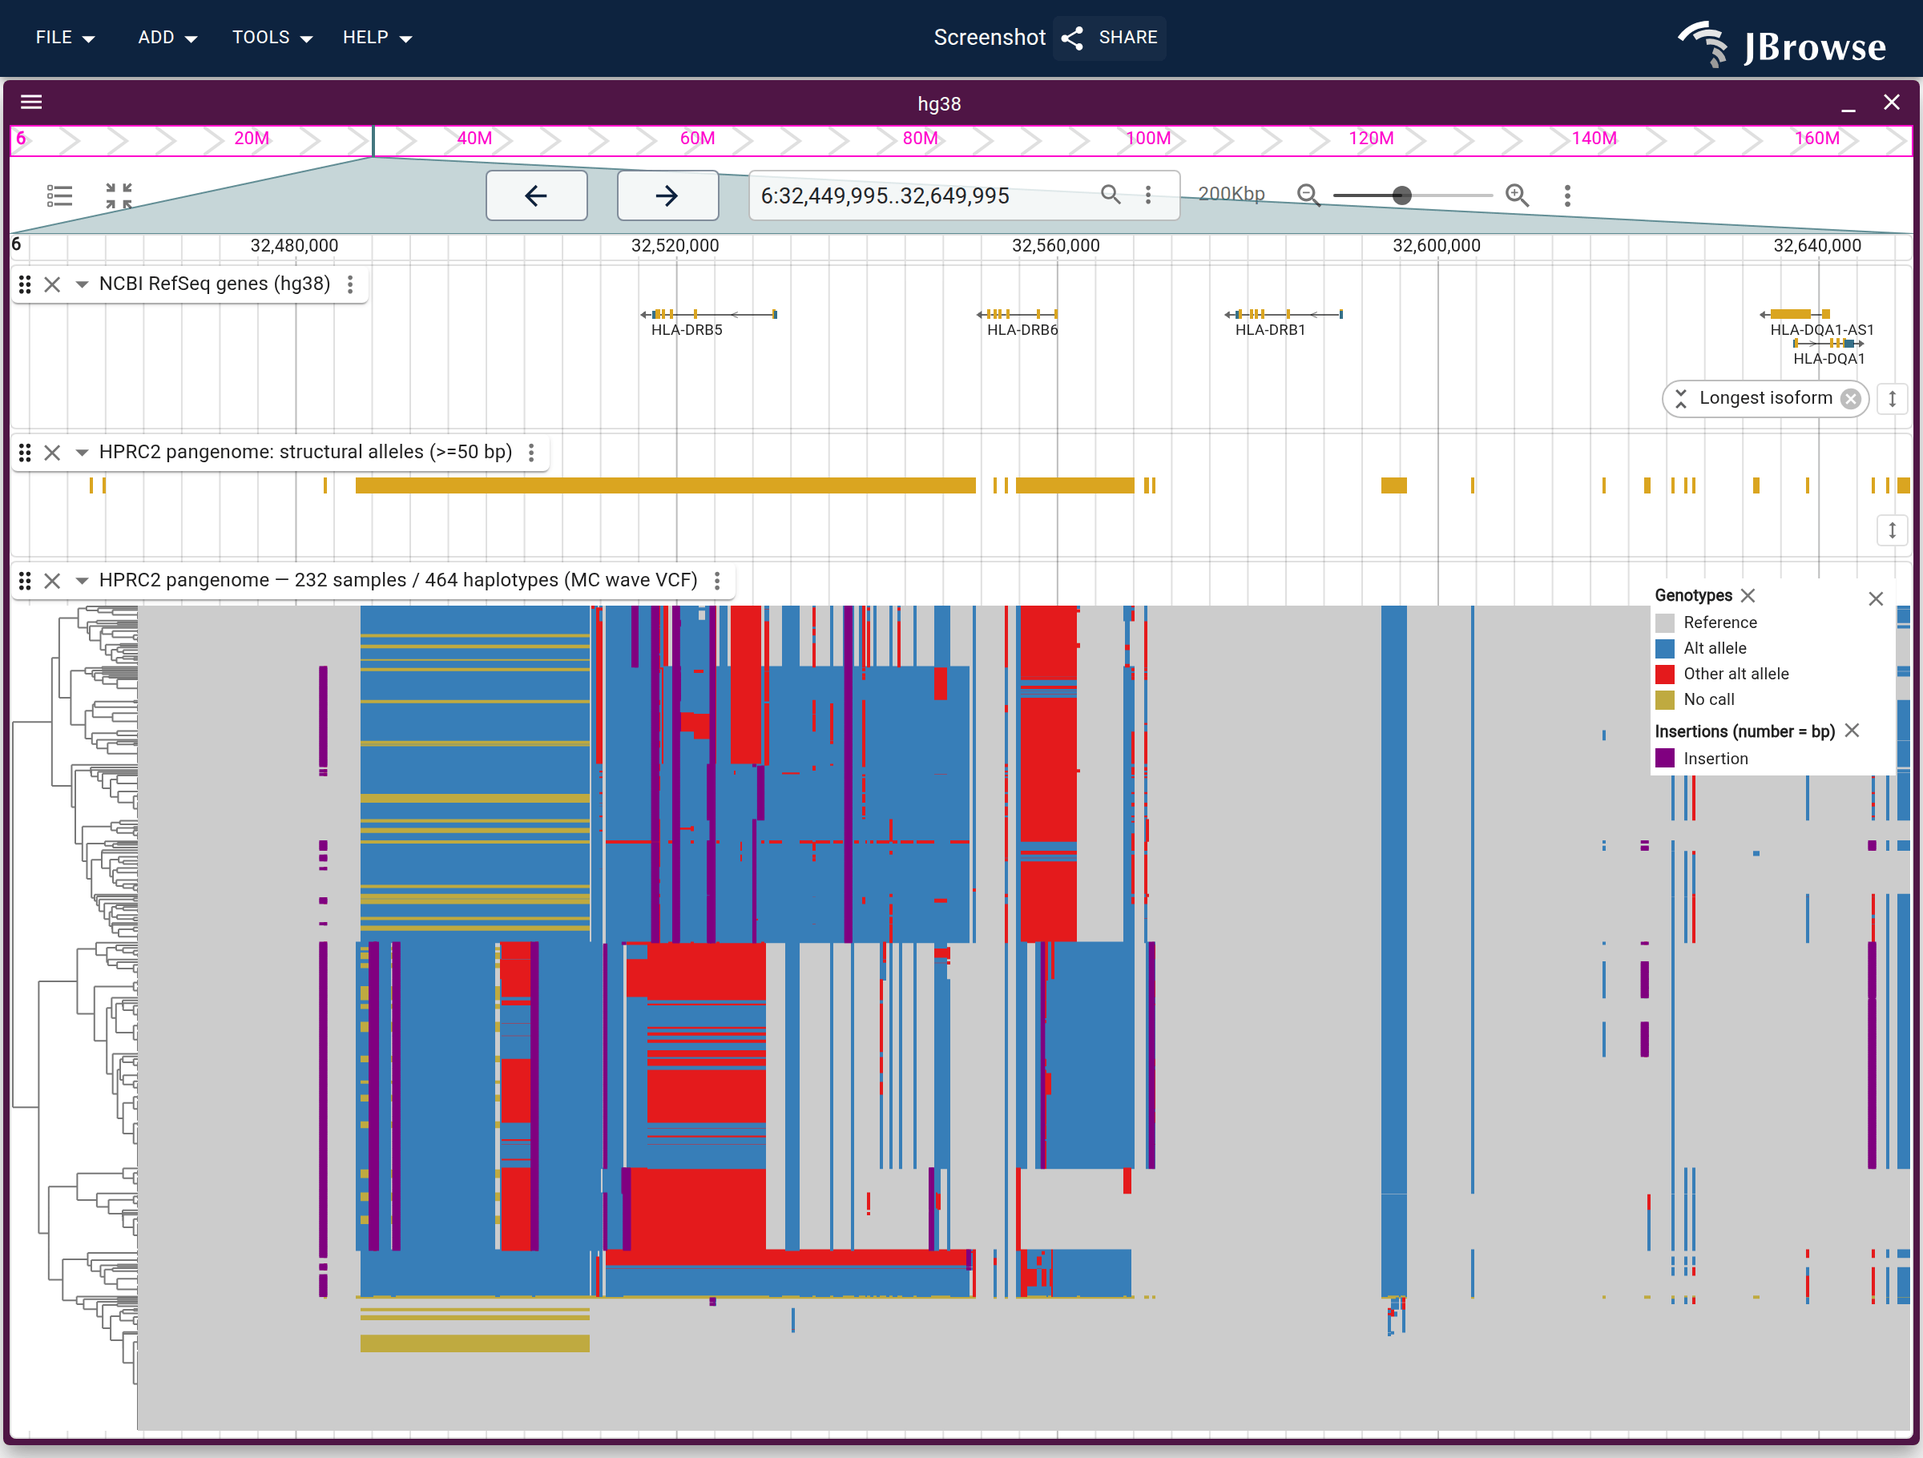
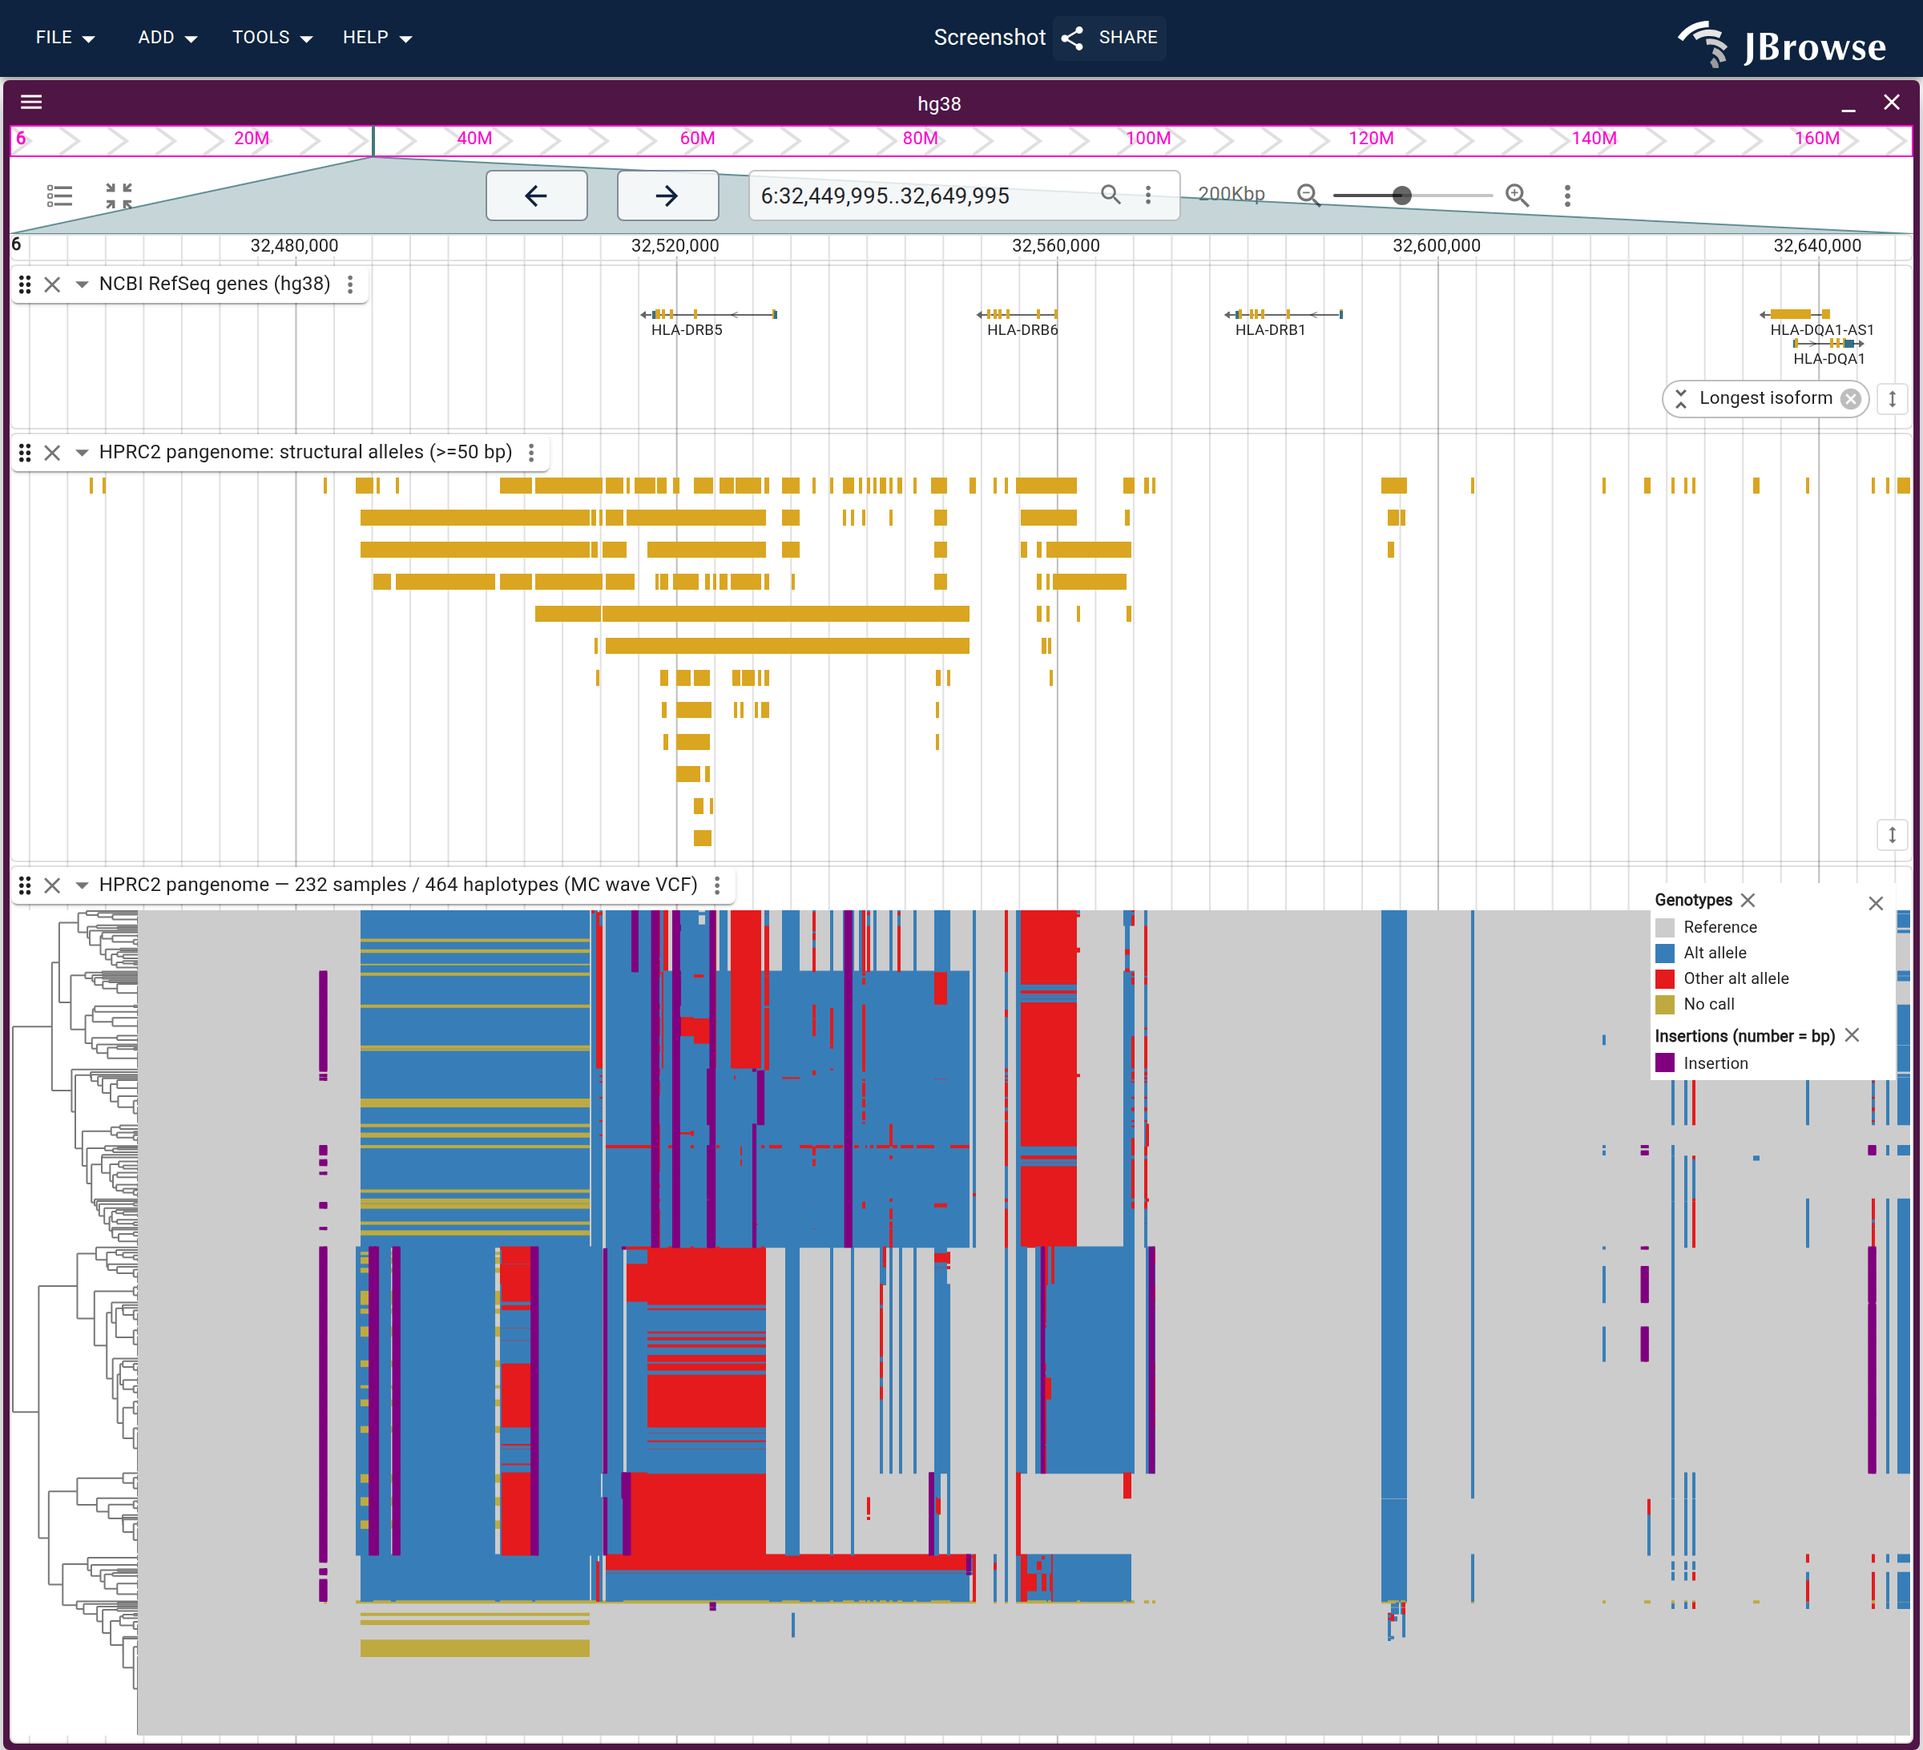
docs(hprc2): stack the MHC structural-allele lane instead of collapsing it
The plain variant lane over the haplotype matrix was displayMode 'collapsed',
which packs every call onto one row -- and these calls overlap, so a 55 kb
allele with dozens of shorter ones inside it drew as one continuous bar. The
lane said "something structural here" and nothing about how many alleles or how
big (review: "need proper layout i think to see nested features").

Normal layout plus heightMode 'grow' now gives it as many rows as the overlap
takes, so a nested allele is drawn inside the span of the one containing it and
each call has its own width. showLabels 'none' with it: every call is named for
the graph nodes it walks (>161033067>161046240_24), so labels cost more height
than the glyphs and say nothing -- the popup still carries the id.

viewportHeight 910 -> 1092, from the run's own below-the-fold report.

diff --git a/website/src/lib/galleryLinks.generated.ts b/website/src/lib/galleryLinks.generated.ts
@@ -284,7 +284,7 @@ export const specSessionUrls: Record<string, string> = {
   "pangenome/hprc_node_menu": "?config=test_data/graphgenomeview/hprc.json&session=spec-%7B%22views%22%3A%5B%7B%22type%22%3A%22LinearGenomeView%22%2C%22assembly%22%3A%22hg38%22%2C%22loc%22%3A%22chr6%3A32%2C500%2C000-32%2C560%2C000%22%2C%22tracks%22%3A%5B%7B%22trackId%22%3A%22hg38_ncbiRefSeq_ucsc%22%2C%22type%22%3A%22LinearBasicDisplay%22%2C%22geneGlyphMode%22%3A%22longestCoding%22%2C%22displayMode%22%3A%22compact%22%2C%22height%22%3A60%7D%2C%7B%22trackId%22%3A%22hprc_minigraph_segments%22%2C%22type%22%3A%22LinearBasicDisplay%22%2C%22showLabels%22%3A%22none%22%2C%22heightMode%22%3A%22grow%22%2C%22color%22%3A%22jexl%3Aget(feature%2C'rank')%3E0%20%3F%20'rgb(60%2C65%2C72)'%20%3A%20'hsl('%20%2B%20min(300%2C%20max(0%2C%20((get(feature%2C'start')%2Bget(feature%2C'end'))%2F2%20-%2032500000)%20%2F%2060000%20*%20300))%20%2B%20'%2C70%25%2C50%25)'%22%7D%5D%7D%2C%7B%22type%22%3A%22GraphGenomeView%22%2C%22loadedTrackId%22%3A%22hprc_minigraph_segments%22%2C%22loadedRegion%22%3A%7B%22refName%22%3A%22chr6%22%2C%22assemblyName%22%3A%22hg38%22%2C%22start%22%3A32500000%2C%22end%22%3A32560000%7D%2C%22colorScheme%22%3A%22reference-position%22%7D%5D%7D&sessionName=Screenshot",
   "pangenome/rgfa_launch_out_menu": "?config=test_data/graphgenomeview/ecoli_pangenome.json&session=spec-%7B%22views%22%3A%5B%7B%22id%22%3A%22launch_out_graph%22%2C%22type%22%3A%22GraphGenomeView%22%2C%22loadedTrackId%22%3A%22ecoli_minigraph_segments%22%2C%22loadedRegion%22%3A%7B%22refName%22%3A%22chr%22%2C%22assemblyName%22%3A%22K12%22%2C%22start%22%3A4400000%2C%22end%22%3A4450000%7D%2C%22layoutMode%22%3A%22force%22%2C%22colorScheme%22%3A%22stable-rank%22%7D%5D%7D&sessionName=Screenshot",
   "pangenome/rgfa_strain_launch": "?config=test_data/graphgenomeview/ecoli_pangenome.json&session=spec-%7B%22views%22%3A%5B%7B%22id%22%3A%22pks_graph%22%2C%22type%22%3A%22GraphGenomeView%22%2C%22loadedTrackId%22%3A%22ecoli_minigraph_segments%22%2C%22loadedRegion%22%3A%7B%22refName%22%3A%22chr%22%2C%22assemblyName%22%3A%22K12%22%2C%22start%22%3A2056000%2C%22end%22%3A2064000%7D%2C%22layoutMode%22%3A%22force%22%2C%22colorScheme%22%3A%22stable-rank%22%7D%5D%7D&sessionName=Screenshot",
-  "hprc2/mhc_clustered": "?config=test_data/hprc2/config.json&session=spec-%7B%22sessionTracks%22%3A%5B%7B%22type%22%3A%22FeatureTrack%22%2C%22trackId%22%3A%22hg38_ncbiRefSeq_ucsc%22%2C%22name%22%3A%22NCBI%20RefSeq%20genes%20(hg38)%22%2C%22assemblyNames%22%3A%5B%22hg38%22%5D%2C%22adapter%22%3A%7B%22type%22%3A%22Gff3TabixAdapter%22%2C%22gffGzLocation%22%3A%7B%22uri%22%3A%22https%3A%2F%2Fjbrowse.org%2Fucsc%2Fhg38%2FncbiRefSeq.gff.gz%22%2C%22locationType%22%3A%22UriLocation%22%7D%2C%22index%22%3A%7B%22location%22%3A%7B%22uri%22%3A%22https%3A%2F%2Fjbrowse.org%2Fucsc%2Fhg38%2FncbiRefSeq.gff.gz.csi%22%2C%22locationType%22%3A%22UriLocation%22%7D%2C%22indexType%22%3A%22CSI%22%7D%7D%7D%2C%7B%22type%22%3A%22VariantTrack%22%2C%22trackId%22%3A%22hprc2_wave_grch38_sites%22%2C%22name%22%3A%22HPRC2%20pangenome%3A%20structural%20alleles%20(%3E%3D50%20bp)%22%2C%22assemblyNames%22%3A%5B%22hg38%22%5D%2C%22adapter%22%3A%7B%22type%22%3A%22VcfTabixAdapter%22%2C%22uri%22%3A%22https%3A%2F%2Fs3-us-west-2.amazonaws.com%2Fhuman-pangenomics%2Fpangenomes%2Ffreeze%2Frelease2%2Fminigraph-cactus%2Fhprc-v2.0-mc-grch38.wave.vcf.gz%22%7D%7D%5D%2C%22views%22%3A%5B%7B%22type%22%3A%22LinearGenomeView%22%2C%22assembly%22%3A%22hg38%22%2C%22loc%22%3A%22chr6%3A32%2C450%2C000-32%2C650%2C000%22%2C%22tracks%22%3A%5B%7B%22trackId%22%3A%22hg38_ncbiRefSeq_ucsc%22%2C%22geneGlyphMode%22%3A%22longestCoding%22%2C%22displayMode%22%3A%22compact%22%2C%22height%22%3A70%7D%2C%7B%22trackId%22%3A%22hprc2_wave_grch38_sites%22%2C%22type%22%3A%22LinearVariantDisplay%22%2C%22jexlFiltersSetting%22%3A%5B%22jexl%3Afeature.INFO.LV%5B0%5D%3D%3D0%20%26%26%20alleleLength(feature)%3E%3D50%22%5D%2C%22displayMode%22%3A%22collapsed%22%2C%22height%22%3A45%7D%2C%7B%22trackId%22%3A%22hprc2_wave_grch38%22%2C%22type%22%3A%22LinearMultiSampleVariantDisplay%22%2C%22height%22%3A515%2C%22jexlFilters%22%3A%5B%22jexl%3Afeature.INFO.LV%5B0%5D%3D%3D0%20%26%26%20alleleLength(feature)%3E%3D50%22%5D%2C%22runClustering%22%3Atrue%7D%5D%7D%5D%7D&sessionName=Screenshot",
+  "hprc2/mhc_clustered": "?config=test_data/hprc2/config.json&session=spec-%7B%22sessionTracks%22%3A%5B%7B%22type%22%3A%22FeatureTrack%22%2C%22trackId%22%3A%22hg38_ncbiRefSeq_ucsc%22%2C%22name%22%3A%22NCBI%20RefSeq%20genes%20(hg38)%22%2C%22assemblyNames%22%3A%5B%22hg38%22%5D%2C%22adapter%22%3A%7B%22type%22%3A%22Gff3TabixAdapter%22%2C%22gffGzLocation%22%3A%7B%22uri%22%3A%22https%3A%2F%2Fjbrowse.org%2Fucsc%2Fhg38%2FncbiRefSeq.gff.gz%22%2C%22locationType%22%3A%22UriLocation%22%7D%2C%22index%22%3A%7B%22location%22%3A%7B%22uri%22%3A%22https%3A%2F%2Fjbrowse.org%2Fucsc%2Fhg38%2FncbiRefSeq.gff.gz.csi%22%2C%22locationType%22%3A%22UriLocation%22%7D%2C%22indexType%22%3A%22CSI%22%7D%7D%7D%2C%7B%22type%22%3A%22VariantTrack%22%2C%22trackId%22%3A%22hprc2_wave_grch38_sites%22%2C%22name%22%3A%22HPRC2%20pangenome%3A%20structural%20alleles%20(%3E%3D50%20bp)%22%2C%22assemblyNames%22%3A%5B%22hg38%22%5D%2C%22adapter%22%3A%7B%22type%22%3A%22VcfTabixAdapter%22%2C%22uri%22%3A%22https%3A%2F%2Fs3-us-west-2.amazonaws.com%2Fhuman-pangenomics%2Fpangenomes%2Ffreeze%2Frelease2%2Fminigraph-cactus%2Fhprc-v2.0-mc-grch38.wave.vcf.gz%22%7D%7D%5D%2C%22views%22%3A%5B%7B%22type%22%3A%22LinearGenomeView%22%2C%22assembly%22%3A%22hg38%22%2C%22loc%22%3A%22chr6%3A32%2C450%2C000-32%2C650%2C000%22%2C%22tracks%22%3A%5B%7B%22trackId%22%3A%22hg38_ncbiRefSeq_ucsc%22%2C%22geneGlyphMode%22%3A%22longestCoding%22%2C%22displayMode%22%3A%22compact%22%2C%22height%22%3A70%7D%2C%7B%22trackId%22%3A%22hprc2_wave_grch38_sites%22%2C%22type%22%3A%22LinearVariantDisplay%22%2C%22jexlFiltersSetting%22%3A%5B%22jexl%3Afeature.INFO.LV%5B0%5D%3D%3D0%20%26%26%20alleleLength(feature)%3E%3D50%22%5D%2C%22displayMode%22%3A%22normal%22%2C%22heightMode%22%3A%22grow%22%2C%22showLabels%22%3A%22none%22%7D%2C%7B%22trackId%22%3A%22hprc2_wave_grch38%22%2C%22type%22%3A%22LinearMultiSampleVariantDisplay%22%2C%22height%22%3A515%2C%22jexlFilters%22%3A%5B%22jexl%3Afeature.INFO.LV%5B0%5D%3D%3D0%20%26%26%20alleleLength(feature)%3E%3D50%22%5D%2C%22runClustering%22%3Atrue%7D%5D%7D%5D%7D&sessionName=Screenshot",
   "cookbook_color_by_strand": "?config=test_data/config_demo.json&session=spec-%7B%22views%22%3A%5B%7B%22type%22%3A%22LinearGenomeView%22%2C%22assembly%22%3A%22hg38%22%2C%22loc%22%3A%22chr17%3A7%2C400%2C000-7%2C700%2C000%22%2C%22tracks%22%3A%5B%7B%22trackId%22%3A%22ncbi_refseq_109_hg38%22%2C%22height%22%3A260%2C%22color%22%3A%22jexl%3Afeature.strand%3D%3D1%3F'%231f77b4'%3A'%23d62728'%22%7D%5D%7D%5D%7D&sessionName=Screenshot",
   "cookbook_color_by_type": "?config=test_data/config_demo.json&session=spec-%7B%22sessionTracks%22%3A%5B%7B%22type%22%3A%22FeatureTrack%22%2C%22trackId%22%3A%22rmsk_hg38_ucsc%22%2C%22name%22%3A%22RepeatMasker%22%2C%22assemblyNames%22%3A%5B%22hg38%22%5D%2C%22adapter%22%3A%7B%22type%22%3A%22BedTabixAdapter%22%2C%22bedGzLocation%22%3A%7B%22uri%22%3A%22https%3A%2F%2Fjbrowse.org%2Fucsc%2Fhg38%2Frmsk.bed.gz%22%2C%22locationType%22%3A%22UriLocation%22%7D%2C%22index%22%3A%7B%22indexType%22%3A%22CSI%22%2C%22location%22%3A%7B%22uri%22%3A%22https%3A%2F%2Fjbrowse.org%2Fucsc%2Fhg38%2Frmsk.bed.gz.csi%22%2C%22locationType%22%3A%22UriLocation%22%7D%7D%7D%7D%5D%2C%22views%22%3A%5B%7B%22type%22%3A%22LinearGenomeView%22%2C%22assembly%22%3A%22hg38%22%2C%22loc%22%3A%22chr17%3A45%2C700%2C000-45%2C750%2C000%22%2C%22tracks%22%3A%5B%7B%22trackId%22%3A%22rmsk_hg38_ucsc%22%2C%22height%22%3A380%2C%22color%22%3A%22jexl%3A%7BSINE%3A'%23e41a1c'%2CLINE%3A'%23377eb8'%2CLTR%3A'%234daf4a'%2CDNA%3A'%23984ea3'%2CSimple_repeat%3A'%23ff7f00'%2CLow_complexity%3A'%23a65628'%7D%5Bget(feature%2C'repClass')%5D%20%7C%7C%20'gray'%22%7D%5D%7D%5D%7D&sessionName=Screenshot",
   "cookbook_multiwig": "?config=test_data/config_demo.json&session=spec-%7B%22sessionTracks%22%3A%5B%7B%22type%22%3A%22MultiQuantitativeTrack%22%2C%22trackId%22%3A%22cookbook_multiwig%22%2C%22name%22%3A%22PUR%20copy%20number%20(8%20samples)%22%2C%22assemblyNames%22%3A%5B%22hg38%22%5D%2C%22adapter%22%3A%7B%22type%22%3A%22MultiWiggleAdapter%22%2C%22subadapters%22%3A%5B%7B%22type%22%3A%22BigWigAdapter%22%2C%22name%22%3A%22HG01080%22%2C%22color%22%3A%22%230072B2%22%2C%22bigWigLocation%22%3A%7B%22uri%22%3A%22https%3A%2F%2Fjbrowse.org%2Fgenomes%2FGRCh38%2F1000g%2Fkidd_lab_cnv%2FPUR%2FHG01080.qm2.CN.1k.bw%22%2C%22locationType%22%3A%22UriLocation%22%7D%7D%2C%7B%22type%22%3A%22BigWigAdapter%22%2C%22name%22%3A%22HG01054%22%2C%22color%22%3A%22%23D55E00%22%2C%22bigWigLocation%22%3A%7B%22uri%22%3A%22https%3A%2F%2Fjbrowse.org%2Fgenomes%2FGRCh38%2F1000g%2Fkidd_lab_cnv%2FPUR%2FHG01054.qm2.CN.1k.bw%22%2C%22locationType%22%3A%22UriLocation%22%7D%7D%2C%7B%22type%22%3A%22BigWigAdapter%22%2C%22name%22%3A%22HG00739%22%2C%22color%22%3A%22%23009E73%22%2C%22bigWigLocation%22%3A%7B%22uri%22%3A%22https%3A%2F%2Fjbrowse.org%2Fgenomes%2FGRCh38%2F1000g%2Fkidd_lab_cnv%2FPUR%2FHG00739.qm2.CN.1k.bw%22%2C%22locationType%22%3A%22UriLocation%22%7D%7D%2C%7B%22type%22%3A%22BigWigAdapter%22%2C%22name%22%3A%22HG00553%22%2C%22color%22%3A%22%23CC79A7%22%2C%22bigWigLocation%22%3A%7B%22uri%22%3A%22https%3A%2F%2Fjbrowse.org%2Fgenomes%2FGRCh38%2F1000g%2Fkidd_lab_cnv%2FPUR%2FHG00553.qm2.CN.1k.bw%22%2C%22locationType%22%3A%22UriLocation%22%7D%7D%2C%7B%22type%22%3A%22BigWigAdapter%22%2C%22name%22%3A%22HG01070%22%2C%22color%22%3A%22%23E69F00%22%2C%22bigWigLocation%22%3A%7B%22uri%22%3A%22https%3A%2F%2Fjbrowse.org%2Fgenomes%2FGRCh38%2F1000g%2Fkidd_lab_cnv%2FPUR%2FHG01070.qm2.CN.1k.bw%22%2C%22locationType%22%3A%22UriLocation%22%7D%7D%2C%7B%22type%22%3A%22BigWigAdapter%22%2C%22name%22%3A%22HG00554%22%2C%22color%22%3A%22%2356B4E9%22%2C%22bigWigLocation%22%3A%7B%22uri%22%3A%22https%3A%2F%2Fjbrowse.org%2Fgenomes%2FGRCh38%2F1000g%2Fkidd_lab_cnv%2FPUR%2FHG00554.qm2.CN.1k.bw%22%2C%22locationType%22%3A%22UriLocation%22%7D%7D%2C%7B%22type%22%3A%22BigWigAdapter%22%2C%22name%22%3A%22HG00551%22%2C%22color%22%3A%22%238B008B%22%2C%22bigWigLocation%22%3A%7B%22uri%22%3A%22https%3A%2F%2Fjbrowse.org%2Fgenomes%2FGRCh38%2F1000g%2Fkidd_lab_cnv%2FPUR%2FHG00551.qm2.CN.1k.bw%22%2C%22locationType%22%3A%22UriLocation%22%7D%7D%2C%7B%22type%22%3A%22BigWigAdapter%22%2C%22name%22%3A%22HG01083%22%2C%22color%22%3A%22%23666666%22%2C%22bigWigLocation%22%3A%7B%22uri%22%3A%22https%3A%2F%2Fjbrowse.org%2Fgenomes%2FGRCh38%2F1000g%2Fkidd_lab_cnv%2FPUR%2FHG01083.qm2.CN.1k.bw%22%2C%22locationType%22%3A%22UriLocation%22%7D%7D%5D%7D%7D%5D%2C%22views%22%3A%5B%7B%22type%22%3A%22LinearGenomeView%22%2C%22assembly%22%3A%22hg38%22%2C%22loc%22%3A%22chr1%3A103%2C540%2C000-103%2C770%2C000%22%2C%22tracks%22%3A%5B%7B%22trackId%22%3A%22ncbi_refseq_109_hg38%22%2C%22height%22%3A70%7D%2C%7B%22trackId%22%3A%22cookbook_multiwig%22%2C%22height%22%3A480%2C%22defaultRendering%22%3A%22multirowline%22%2C%22minScore%22%3A0%2C%22maxScore%22%3A5%7D%5D%7D%5D%7D&sessionName=Screenshot"

diff --git a/website/scripts/specs/hprc2.ts b/website/scripts/specs/hprc2.ts
@@ -138,11 +138,22 @@ export const hprc2Specs: ScreenshotSpec[] = [
               // prefixes them on read, so passing the multi-sample display's
               // already-prefixed strings there produces `jexl:jexl:...`
               jexlFiltersSetting: SV_FILTER,
-              // one row of glyphs: the sites are what this lane is for, and
-              // stacking them by overlap would spend the frame's remaining
-              // height on the same 198 calls
-              displayMode: 'collapsed',
-              height: 45,
+              // NOT collapsed. Collapsed packs every call onto one row, and
+              // these calls overlap — a 55 kb allele with dozens of shorter ones
+              // inside it came out as one continuous bar, so the lane said
+              // "something structural here" and nothing about how many alleles
+              // or how big ("hard to tell what is going on with the hprc2
+              // structural alleles ... need proper layout i think to see nested
+              // features", review). Normal layout stacks them by overlap and
+              // `grow` gives the lane however many rows that takes, so a nested
+              // allele is drawn inside the span of the one that contains it.
+              displayMode: 'normal',
+              heightMode: 'grow',
+              // Every one of these calls is named for the graph nodes it walks
+              // (`>161033067>161046240_24`), so labels on cost more vertical
+              // space than the glyphs and say nothing a reader can use. The
+              // popup still carries the id.
+              showLabels: 'none',
             },
             {
               trackId: TRACK,
@@ -161,11 +172,13 @@ export const hprc2Specs: ScreenshotSpec[] = [
     readySelector: clusteredReady(REGULAR_READY),
     readyTimeout: 360000,
     viewportWidth: 1200,
-    // the gene lane, the matrix in full, and the view's own bottom edge: at 780
-    // the last haplotype rows ran off the frame, which reads as a clipped track
-    // rather than as the bottom of the cohort (the run's own below-the-fold
-    // report is what this is measured against, not the PNG)
-    viewportHeight: 910,
+    // the gene lane, the SV lane at whatever row count `grow` gives it, the
+    // matrix in full, and the view's own bottom edge: at 780 the last haplotype
+    // rows ran off the frame, which reads as a clipped track rather than as the
+    // bottom of the cohort, and the un-collapsed SV lane added 182 more (the
+    // run's own below-the-fold report is what both are measured against, not the
+    // PNG)
+    viewportHeight: 1092,
     settleMs: 5000,
     hideTooltip: true,
     actions: [

diff --git a/website/docs/tutorials/pangenome_hprc.md b/website/docs/tutorials/pangenome_hprc.md
@@ -843,7 +843,7 @@ up with the genes above. **Clustering → Cluster rows by genotype... → Run
 clustering** in the track menu reorders the 464 rows by genotype similarity and
 draws a dendrogram beside them:
 
-<Figure caption="Top-level sites holding a structural allele (50 bp and up) across the HPRC2 haplotypes, one row each, clustered by genotype and drawn under the HLA class II genes they fall in. Haplotypes that share whole sets of alleles cluster into solid blocks spanning several genes, with no HLA typing involved." src="/img/hprc2/mhc_clustered.png" />
+<Figure caption="Top-level sites holding a structural allele (50 bp and up) across the HPRC2 haplotypes, one row each, clustered by genotype and drawn under the HLA class II genes they fall in. The lane between the two stacks the same calls by overlap, so each allele has a width and the ones nested inside a longer allele are visible as such. Haplotypes that share whole sets of alleles cluster into solid blocks spanning several genes, with no HLA typing involved." src="/img/hprc2/mhc_clustered.png" />
 
 ## Structure, not sequence
 
